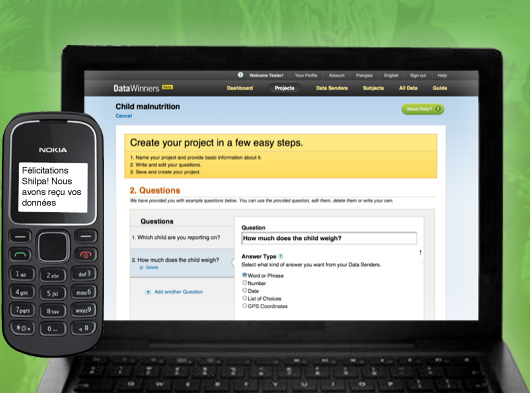
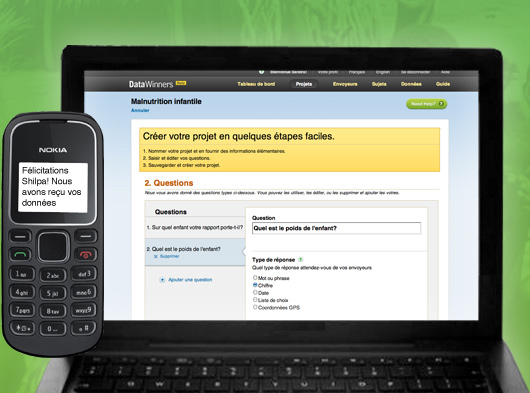
Work on #993 part II <herihaja>

Changed region(s): [[0.1509, 0.1832, 0.9057, 0.7939]]

diff --git a/datawinners/media/css/scss/util.css b/datawinners/media/css/scss/util.css
@@ -259,14 +259,14 @@ span.tooltip {
     width: 94px;
     font-size: 12px; }
 
-#cancel_project_block, #activate_project_block, #questionnaire_code_change, #subject_warning_message, #delete_project_block, #all_project_block, #new_reminder, #web_user_block {
+#cancel_project_block, #activate_project_block, #questionnaire_code_change, #subject_warning_message, #delete_project_block, #all_project_block, #new_reminder, #web_user_block, #user_should_agree_terms_block {
   padding: 20px;
   display: none; }
-  #cancel_project_block .warning_message, #activate_project_block .warning_message, #questionnaire_code_change .warning_message, #subject_warning_message .warning_message, #delete_project_block .warning_message, #all_project_block .warning_message, #new_reminder .warning_message, #web_user_block .warning_message {
+  #cancel_project_block .warning_message, #activate_project_block .warning_message, #questionnaire_code_change .warning_message, #subject_warning_message .warning_message, #delete_project_block .warning_message, #all_project_block .warning_message, #new_reminder .warning_message, #web_user_block .warning_message, #user_should_agree_terms_block .warning_message {
     margin-bottom: 30px; }
-  #cancel_project_block #confirm_delete, #cancel_project_block #confirm, #cancel_project_block #ok_button, #activate_project_block #confirm_delete, #activate_project_block #confirm, #activate_project_block #ok_button, #questionnaire_code_change #confirm_delete, #questionnaire_code_change #confirm, #questionnaire_code_change #ok_button, #subject_warning_message #confirm_delete, #subject_warning_message #confirm, #subject_warning_message #ok_button, #delete_project_block #confirm_delete, #delete_project_block #confirm, #delete_project_block #ok_button, #all_project_block #confirm_delete, #all_project_block #confirm, #all_project_block #ok_button, #new_reminder #confirm_delete, #new_reminder #confirm, #new_reminder #ok_button, #web_user_block #confirm_delete, #web_user_block #confirm, #web_user_block #ok_button {
+  #cancel_project_block #confirm_delete, #cancel_project_block #confirm, #cancel_project_block #ok_button, #activate_project_block #confirm_delete, #activate_project_block #confirm, #activate_project_block #ok_button, #questionnaire_code_change #confirm_delete, #questionnaire_code_change #confirm, #questionnaire_code_change #ok_button, #subject_warning_message #confirm_delete, #subject_warning_message #confirm, #subject_warning_message #ok_button, #delete_project_block #confirm_delete, #delete_project_block #confirm, #delete_project_block #ok_button, #all_project_block #confirm_delete, #all_project_block #confirm, #all_project_block #ok_button, #new_reminder #confirm_delete, #new_reminder #confirm, #new_reminder #ok_button, #web_user_block #confirm_delete, #web_user_block #confirm, #web_user_block #ok_button, #user_should_agree_terms_block #confirm_delete, #user_should_agree_terms_block #confirm, #user_should_agree_terms_block #ok_button {
     color: #6F451D; }
-  #cancel_project_block a.wizard_cancel_link, #cancel_project_block a.cancel_link, #activate_project_block a.wizard_cancel_link, #activate_project_block a.cancel_link, #questionnaire_code_change a.wizard_cancel_link, #questionnaire_code_change a.cancel_link, #subject_warning_message a.wizard_cancel_link, #subject_warning_message a.cancel_link, #delete_project_block a.wizard_cancel_link, #delete_project_block a.cancel_link, #all_project_block a.wizard_cancel_link, #all_project_block a.cancel_link, #new_reminder a.wizard_cancel_link, #new_reminder a.cancel_link, #web_user_block a.wizard_cancel_link, #web_user_block a.cancel_link {
+  #cancel_project_block a.wizard_cancel_link, #cancel_project_block a.cancel_link, #activate_project_block a.wizard_cancel_link, #activate_project_block a.cancel_link, #questionnaire_code_change a.wizard_cancel_link, #questionnaire_code_change a.cancel_link, #subject_warning_message a.wizard_cancel_link, #subject_warning_message a.cancel_link, #delete_project_block a.wizard_cancel_link, #delete_project_block a.cancel_link, #all_project_block a.wizard_cancel_link, #all_project_block a.cancel_link, #new_reminder a.wizard_cancel_link, #new_reminder a.cancel_link, #web_user_block a.wizard_cancel_link, #web_user_block a.cancel_link, #user_should_agree_terms_block a.wizard_cancel_link, #user_should_agree_terms_block a.cancel_link {
     color: #0070ac;
     font-size: 12px; }
 

diff --git a/datawinners/templates/home/pricing_en.html b/datawinners/templates/home/pricing_en.html
@@ -18,7 +18,7 @@
 
 {% block main_content %}
 <div id="nav_content">
-    <h1>Plans and Pricing</h1>
+    <h1><a href="/en/pricing/">PLANS AND PRICING</a></h1>
     <ul>
         <li class="active"><a href="/en/pricing/">Pricing</a></li>
     </ul>
@@ -37,7 +37,8 @@
                             <ul>
                                 <li>Same online data collection tools as paid subscription</li>
                                 <li>International telephone number for test purposes</li>
-                                <li>Packet of 100 SMS* Unlimited Web submissions</li>
+                                <li>Packet of 100 SMS*</li>
+                                <li>Unlimited Web submissions</li>
                             </ul>
                             <em><small>* For Test Drive Accounts international SMS rates apply</small></em>
                         </div>
@@ -52,7 +53,7 @@
                     <div class="plan">
                         <div class="padding_10">
                             <h2>Ready to Work</h2>
-                            <span>Madagascar only. Worldwide early 2012</span>
+                            Madagascar only. Worldwide early 2012
                             $850 <small>per month</small>
                             <br/>
                             <a href="/register/" class="try_button">Subscribe now</a>
@@ -90,14 +91,14 @@
                 </p></div>
             </li>
             <li>Overage: $50 for 500 additional SMS</li>
-            <li>Coverage: Airtel</li>
+            <li>Coverage: Airtel (ask us about  Orange and Telma)</li>
             <li>Reverse SMS Billing <img src="/media/images/help_icon.png" class="help_icon" style="margin-top:-6px;" />
                 <div class="tooltip"><p>
                     Field staff pay nothing to send in their data via SMS. These in-bound SMS are deducted from your monthly packet of 5000.
                 </p></div>
             </li>
         </ul>
-        <p>View HNI’s <a href="/en/terms-and-conditions/">Terms and Conditions</a> and <a href="javascript:void(0);">Privacy Policy</a> for more details.</p>
+        <p>View HNI’s <a href="/en/terms-and-conditions/">Terms and Conditions</a> and <a href="/en/privacy-policy/">Privacy Policy</a> for more details.</p>
         <h2>Monthly Subscription Costs</h2>
         <table width="500" class="pricelist">
             <tr>
@@ -115,9 +116,9 @@
         </table>
         <a name="a4"></a><h2>Payment</h2>
         <ol>
-            <li><strong>Wire transfer.</strong></li>
-            <li><strong>Credit card</strong><br/>Call us directly and we can securely process your credit card payment over the phone.</li>
-            <li><strong>Pay via ACH</strong><br/>Securely transfer funds between your US-based bank account and ours (normally free of charge).</li>
+            <li>Wire transfer.</li>
+            <li>Credit card<br/><i style="color: #666666;">Call us directly and we can securely process your credit card payment over the phone.</i></li>
+            <li>Pay via ACH<br/><i style="color: #666666;">Securely transfer funds between your US-based bank account and ours (normally free of charge).</i></li>
         </ol>
         <a name="a5"></a><h2>Need help getting started? </h2>
         <p>If you need help getting started or have an ambitious data collection project that requires a DataWinners custom solution, contact us at

diff --git a/datawinners/templates/home/support_case_studies.html b/datawinners/templates/home/support_case_studies.html
@@ -1,5 +1,5 @@
 {% extends 'public_secondary.html' %}
-{% block page_title %} Support {% endblock %}
+{% block page_title %} Case Studies {% endblock %}
 
 {% load dw_tabs %}
 {% block body %}
@@ -54,8 +54,8 @@
                     <div class="title">
                         <a href="javascript:void(0)" rel="1">
                             <img src="/media/images/dw_support1.png"
-                                 width="180" alt="Monthly Report"/>
-                            <strong>Monthly Report</strong>
+                                 width="180" alt="Summary Report"/>
+                            <strong>Summary Report</strong>
                         </a>
                     </div>
                     <div class="title">
@@ -80,7 +80,7 @@
 
             <div id="how_content">
                 <div id="step1" class="container active">
-                    <h1>MONTHLY ACTIVITY REPORTS</h1>
+                    <h1>SUMMARY REPORTS</h1>
 
                     <h2>1. Replace Costly and Inefficient Paper-Based Data
                         Collection Efforts</h2>
@@ -98,13 +98,14 @@
                         She reviews her paper-based monthly summary report
                         form, talks with staff and
                         decides:
-                        1) who she wants to collect data from (Nutritional
-                        Agents);
-                        2) The subject of her questionnaire (Feeding Centers)
-                        and
-                        3) which key questions she wants her Nutritional Agents
+<ol>
+                        <li>who she wants to collect data from (Nutritional
+                        Agents);</li>
+                        <li>The subject of her questionnaire (Feeding Centers)
+                        and</li>
+                        <li>which key questions she wants her Nutritional Agents
                         to answer via SMS
-                        (example: How many children did you weigh last month?)
+                        (example: How many children did you weigh last month?)</li></ol>
                     </p>
 
                     <p>
@@ -238,14 +239,14 @@
                         She reviews her paper-based Feeding Center Quality
                         Assurance Report form,
                         talks with staff and decides:
-                        1) who she wants to collect data from (Regional
-                        Supervisors);
-                        2) The subject of her questionnaire (Feeding Center)
-                        and
-                        3) which key questions she wants her Supervisors to
+                        <ol>
+                            <li>who she wants to collect data from (Regional Supervisors)</li>
+                            <li>The subject of her questionnaire (Feeding Center)</li>
+                            <li>which key questions she wants her Supervisors to
                         answer via SMS
                         (example: What overall grade, out of five do you give
-                        this Feeding Center?)
+                        this Feeding Center?)</li>
+                        </ol>
                     </p>
 
                     <p>She creates the questionnaire using DataWinners friendly

diff --git a/datawinners/templates/registration/register.html b/datawinners/templates/registration/register.html
@@ -16,7 +16,7 @@
     <div class="span-18 box">
         <fieldset>
              <h6 class="section_description">{% trans "All fields are required unless marked optional." %}</h6>
-             <form id="registration_form" action="" method="POST">
+             <form id="registration_form" action="" method="POST" class="registration_form">
                     {% csrf_token %}
                     <div class="form-5px">
                         <ul class="organization">
@@ -177,7 +177,7 @@
                             </li>
 
                             <li>
-                                <input type="checkbox" id="agree-terms" value="1"/>{% trans "agree-terms" %}
+                                <input type="checkbox" id="agree-terms" value="1" {% ifequal messages.request.method 'POST' %}checked="checked"{% endifequal %}/>{% trans "agree-terms" %}
                             </li>
                             <li class="margin_top_20">
                                 <input type="button" id="submit_registration_form" value="{% trans "Sign Up" %}" class="button" />
@@ -188,10 +188,12 @@
         </fieldset>
     </div>
     <div id='user_should_agree_terms_block'>
-        {% trans "You have to agree terms and conditions before using DataWinners" %}
+        {% trans "To sign up for a DataWinners account, you need to agree to our Terms and Conditions" %}
         <br/>
-        <br/>
-        <a href="#" class="button agree_link">{% trans "Agree" %}</a>   
+        <div style="display: inline;float:right;">
+            <a href="javascript:void(0);" id="cancel-agree-terms" class="cancel_link">{% trans "Cancel" %}</a>
+            <a href="#" class="button agree_link">{% trans "I Agree" %}</a>
+        </div>
     </div>
     <div id="content_of_terms_and_conditions">
 

diff --git a/datawinners/templates/home/support_case_studies_fr.html b/datawinners/templates/home/support_case_studies_fr.html
@@ -237,13 +237,13 @@
                         son compte DataWinners. Elle étudie la version papier
                         de son Formulaire de Rapport d'Assurance de la Qualité
                         du Centre de Nutrition, s’entretient avec le personnel,
-                        et décide: 1) de la part de qui veut-elle collecter les
-                        données (Superviseurs Régionaux) ; 2) le sujet de son
-                        questionnaire (Centre de Nutrition) et 3) à quelles
-                        questions clés souhaite-t-elle que ses superviseurs
-                        répondent par SMS (par exemple: Quelle note globale sur
-                        cinq donnez-vous à ce Centre de Nutrition?)
-                        <br/>Elle crée le questionnaire en utilisant le
+                        et décide:
+                        <ol>
+                            <li>de la part de qui veut-elle collecter les données (Superviseurs Régionaux)</li>
+                            <li>le sujet de son questionnaire (Centre de Nutrition)</li>
+                            <li>à quelles questions clés souhaite-t-elle que ses superviseurs répondent par SMS (par exemple: Quelle note globale sur cinq donnez-vous à ce Centre de Nutrition?)</li>
+                        </ol>
+                        Elle crée le questionnaire en utilisant le
                         générateur de questionnaire convivial de DataWinners.
                     </p>
 

diff --git a/datawinners/templates/home/pricing_fr.html b/datawinners/templates/home/pricing_fr.html
@@ -112,9 +112,9 @@
         </table>
         <a name="a4"></a><h2>Paiement</h2>
         <ol>
-            <li><strong>Virement.</strong></li>
-            <li><strong>Carte de crédit</strong><br/>Appelez-nous directement et nous pouvons par téléphone, procéder à votre paiement par carte de crédit en toute sécurité.</li>
-            <li><strong>Paiement par transfert ACH </strong><br/>Transfert de fonds direct et sécurisé entre deux comptes bancaires basés aux États-Unis (gratuit , normalement).</li>
+            <li>Virement</li>
+            <li>Carte de crédit<br/><i style="color: #666666;">Appelez-nous directement et nous pouvons par téléphone, procéder à votre paiement par carte de crédit en toute sécurité.</i></li>
+            <li>Paiement par transfert ACH <br/><i style="color: #666666;">Transfert de fonds direct et sécurisé entre deux comptes bancaires basés aux États-Unis (gratuit , normalement).</i></li>
         </ol>
         <a name="a5"></a><h2>Besoin d'aide pour démarrer ?</h2>
         <p>Si vous avez besoin d'aide pour démarrer, ou avez un projet de collecte de données ambitieux qui nécessite une solution personnalisée de la part de DataWinners, contactez-nous au <a href="mailto:info@datawinners.com">info@datawinners.com</a> ou utilisez notre formulaire de contact. </p>

diff --git a/datawinners/templates/registration/register_for_trial.html b/datawinners/templates/registration/register_for_trial.html
@@ -16,7 +16,7 @@
     <div class="span-18 box">
         <fieldset>
              <h6 class="section_description">{% trans "All fields are required unless marked optional." %}</h6>
-             <form id="registration_form" action="" method="POST">
+             <form id="registration_form" action="" method="POST" class="registration_form">
                     {% csrf_token %}
                     <div class="form-5px">
                         <ul class="organization">
@@ -116,10 +116,12 @@
         </fieldset>
     </div>
     <div id='user_should_agree_terms_block'>
-            {% trans "You have to agree terms and conditions before using DataWinners" %}
+            {% trans "To sign up for a DataWinners account, you need to agree to our Terms and Conditions" %}
             <br/>
-            <br/>
-            <a href="#" class="button agree_link">{% trans "Agree" %}</a>
+            <div style="display: inline;float:right;">
+                <a href="javascript:void(0);" id="cancel-agree-terms" class="cancel_link">{% trans "Cancel" %}</a>
+                <a href="#" class="button agree_link">{% trans "I Agree" %}</a>
+            </div>
     </div>
     <div id="content_of_terms_and_conditions">
         

diff --git a/datawinners/templates/header_wizard.html b/datawinners/templates/header_wizard.html
@@ -24,7 +24,14 @@
                     <span>  <a href="{% url datawinners.home.views.switch_language "fr" %}">Fran&ccedil;ais</a> </span>
                     <span>  <a href="{% url datawinners.home.views.switch_language "en" %}">English</a> </span>
                     <span>  <a href="{% url django.contrib.auth.views.login %}">{% trans "Sign In" %}</a> </span>
-                    <span>  <a href="{% url registration.views.register %}">{% trans "Sign Up" %}</a> </span>
+                    <span>  <a href="{% url registration.views.register %}"
+                        {% ifequal messages.request.path "/register/" %}
+                            class="active"
+                        {% else %}
+                            {% ifequal messages.request.path "/register/trial/" %}
+                                class="active"
+                            {%  endifequal %}
+                        {% endifequal %}>{% trans "Sign Up" %}</a> </span>
                 </div>
             {% endif %}
         </div>

diff --git a/datawinners/media/css/scss/section_registration.css b/datawinners/media/css/scss/section_registration.css
@@ -63,7 +63,8 @@ form ul li input[type=text], form ul li input[type=password] {
 
 .subscription_details {
   float: right;
-  background: #feee96; }
+  background: #feee96;
+  min-height: 155px !important; }
   .subscription_details p {
     margin-top: 10px; }
   .subscription_details li {
@@ -82,7 +83,8 @@ form ul li input[type=text], form ul li input[type=password] {
   margin-left: 3px;
   margin-top: -5px;
   margin-bottom: 10px;
-  color: #666; }
+  color: #666;
+  font-style: italic; }
 
 .choices_description {
   line-height: 14px;
@@ -107,3 +109,12 @@ form ul li input[type=text], form ul li input[type=password] {
   margin-top: 10px;
   margin-left: 20px;
   text-align: center; }
+
+form.registration_form ul li label {
+  width: 160px;
+  margin-right: 10px;
+  text-align: right; }
+form.registration_form ul li ul li label {
+  width: auto;
+  padding-top: 1px;
+  text-align: left; }

diff --git a/datawinners/media/css/scss/section_registration.scss b/datawinners/media/css/scss/section_registration.scss
@@ -93,6 +93,7 @@ form{
 .subscription_details {
     float: right;
     background: #feee96;
+    min-height: 155px !important;
     p{
     margin-top: 10px;
     }
@@ -116,6 +117,7 @@ form{
     margin-top: -5px;
     margin-bottom: 10px;
     color: #666;
+    font-style: italic;
 }
 
 .choices_description{
@@ -144,3 +146,24 @@ form{
                 margin-left:20px;
                 text-align:center;
             }
+
+form.registration_form{
+    ul{
+        li{
+            label{
+                width: 160px;
+                margin-right: 10px;
+                text-align: right;
+            }
+            ul{
+                li{
+                    label{
+                        width: auto;
+                        padding-top: 1px;
+                        text-align: left;
+                    }
+                }
+            }
+        }
+    }
+}

diff --git a/datawinners/media/javascript/registration/register.js b/datawinners/media/javascript/registration/register.js
@@ -7,7 +7,7 @@ $(document).ready(function() {
     $("#user_should_agree_terms_block").dialog({
         autoOpen: false,
         modal: true,
-        title: gettext('Agree terms and conditions'),
+        title: gettext("DataWinners Terms & Conditions"),
         zIndex:200,
         width: 500,
         beforeClose: function() {
@@ -17,6 +17,10 @@ $(document).ready(function() {
 
     $("#user_should_agree_terms_block .agree_link").bind("click", function() {
         $("#agree-terms").attr("checked", true);
+        $("#user_should_agree_terms_block").dialog("close");
+    });
+
+    $("#cancel-agree-terms").bind("click", function(){
         $("#user_should_agree_terms_block").dialog("close");
     });
 

diff --git a/datawinners/media/css/scss/util.scss b/datawinners/media/css/scss/util.scss
@@ -295,7 +295,7 @@ p{
 }
 }
 
-#cancel_project_block, #activate_project_block, #questionnaire_code_change, #subject_warning_message, #delete_project_block, #all_project_block, #new_reminder, #web_user_block{
+#cancel_project_block, #activate_project_block, #questionnaire_code_change, #subject_warning_message, #delete_project_block, #all_project_block, #new_reminder, #web_user_block,#user_should_agree_terms_block{
     padding:20px;
     display:none;
     .warning_message{
